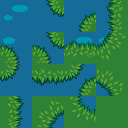
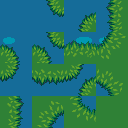
added internal bio-diversity through solid_biome.png

Changed region(s): [[0.0938, 0.0312, 0.2188, 0.0938], [0.0312, 0.0938, 0.125, 0.1562]]

diff --git a/mapbuild.py b/mapbuild.py
@@ -1,159 +1,182 @@
 """
-mapbuild.py  –  multi-biome Wang-corner terrain generator
----------------------------------------------------------
-requirements:
-    pip install pillow noise
-directory layout expected:
-    assets/
-        transition_grass_water.png
-        transition_grass_desert.png
-        transition_desert_water.png
-            (each is a 4×4 = 128×128 PNG, indices 0-15 row-major)
+mapbuild.py – tri-biome Wang generator *with sparse décor patches*
+------------------------------------------------------------------
+If assets/solid_<biome>.png exists, the strip is sliced into
+one ‘pure’ tile (always index 0) plus N decorative frames.
+These extra frames are sprinkled on the interior according to
+two biome-specific knobs:
 
-The first biome name in the PNG filename is the HIGH layer,
-the second is the LOW layer, e.g.  transition_grass_water → high=grass, low=water
+    PATCH_FREQ[biome]   • spatial frequency of Perlin noise
+    DENSITY[biome]      • probability (0-1) that a tile inside a
+                          high-noise patch uses a decorative frame
+
+Defaults give ~8 % flowers on grass, ~4 % shells on sand, etc.
 """
 
-import os, math, random
+import math, random
 from pathlib import Path
 import numpy as np
 from PIL import Image
-from noise import pnoise2             # Perlin
+from noise import pnoise2                           # Perlin noise
 
 # ────────────────────────────────────────────────────────────
-# global knobs
+# global knobs you might tweak
 # ────────────────────────────────────────────────────────────
-TILE        = 32          # pixel edge of one tile
-GRID        = 128         # number of tiles along one axis
+TILE        = 32
+GRID        = 128           # world size in tiles
 SEED        = 42
-WATER_FREQ  = 1.2         # ↓ lower ⇒ bigger blobs
+WATER_FREQ  = 1.2
 DESERT_FREQ = 1.0
-WATER_TH    = -0.10       # Perlin value < WATER_TH  → water
-DESERT_TH   =  0.20       # Perlin value > DESERT_TH → desert
-BUFFER_DIST = 2           # Manhattan distance separating water & desert
-ASSETS_DIR  = Path("assets")
+WATER_TH    = -0.10
+DESERT_TH   =  0.20
+BUFFER_DIST = 2
 
-# ────────────────────────────────────────────────────────────
-# tileset helpers
-# ────────────────────────────────────────────────────────────
+ASSETS_DIR  = Path("assets")
 PAIR_IMG = {("water",  "grass"):  "transition_grass_water.png",
             ("grass",  "desert"): "transition_grass_desert.png",
-            ("water",  "desert"): "transition_desert_water.png"}   # high_low in PNG
+            ("water",  "desert"): "transition_desert_water.png"}   # hi_low order
 
-def split_tileset(img_path: Path):
-    """return list[16] of 32×32 PIL tiles cropped from 4×4 sheet"""
-    img = Image.open(img_path).convert("RGBA")
-    return [img.crop(((idx % 4)*TILE,
-                      (idx // 4)*TILE,
-                      (idx % 4 + 1)*TILE,
-                      (idx // 4 + 1)*TILE))
-            for idx in range(16)]
+# Décor parameters by biome (add more if you add biomes)
+PATCH_FREQ = dict(grass=8.0, desert=7.0, water=9.0)   # lower→larger blobs
+DENSITY    = dict(grass=0.25, desert=0.15, water=0.10) # fraction inside blob
 
-SHEETS  = {}   # (water,grass) → [16 PILs]
-HI_LO   = {}   # (water,grass) → ("grass","water")
+# ────────────────────────────────────────────────────────────
+# helper – slice a 4×4 Wang sheet
+# ────────────────────────────────────────────────────────────
+def slice_sheet(path: Path):
+    img = Image.open(path).convert("RGBA")
+    return [img.crop(((i % 4)*TILE,
+                      (i // 4)*TILE,
+                      (i % 4 + 1)*TILE,
+                      (i // 4 + 1)*TILE))
+            for i in range(16)]
 
+SHEETS, HI_LO = {}, {}
 for pair, fname in PAIR_IMG.items():
-    sheet_path = ASSETS_DIR / fname
-    SHEETS[pair] = split_tileset(sheet_path)
+    sheet = slice_sheet(ASSETS_DIR / fname)
+    hi, lo = Path(fname).stem.split("_")[-2:]
+    SHEETS[pair] = sheet
+    HI_LO[pair]  = (hi, lo)
 
-    # parse "transition_<high>_<low>.png"
-    stem_parts = sheet_path.stem.split("_")   # ['transition', 'grass', 'water']
-    hi, lo = stem_parts[-2], stem_parts[-1]
-    HI_LO[pair] = (hi, lo)
+# ── build PURE + optional DECORATIVE tiles ─────────────────
+PURE = {}        # biome → PIL (canonical)
+EXTRA = {}       # biome → list[PIL] of decorative frames
 
-# build a “pure” tile cache so areas of one biome use a single image
-PURE_TILE = {}   # biome → PIL.Image
 for pair, sheet in SHEETS.items():
     hi, lo = HI_LO[pair]
-    PURE_TILE.setdefault(hi, sheet[15])   # all-high tile
-    PURE_TILE.setdefault(lo, sheet[0])    # all-low  tile
+    PURE.setdefault(hi, sheet[15])
+    PURE.setdefault(lo, sheet[0])
+
+for biome in PURE:
+    strip_path = ASSETS_DIR / f"solid_{biome}.png"
+    frames = []
+    if strip_path.is_file():
+        strip = Image.open(strip_path).convert("RGBA")
+        cols = strip.width // TILE
+        for c in range(cols):
+            tile = strip.crop((c*TILE, 0, (c+1)*TILE, TILE))
+            frames.append(tile)
+    EXTRA[biome] = frames               # may be empty list
 
 # ────────────────────────────────────────────────────────────
-# noise helpers
+# deterministic Perlin wrappers
 # ────────────────────────────────────────────────────────────
+def perlin(nx, ny, freq, base):
+    """Perlin in range [-1,1]"""
+    return pnoise2(nx*freq, ny*freq, octaves=4, base=base)
+
+def decor_noise(biome, x, y):
+    freq = PATCH_FREQ.get(biome, 8.0)
+    base = hash(biome) & 0xFFFF
+    return perlin(x/GRID, y/GRID, freq, base)  # [-1,1]
+
 rng = random.Random(SEED)
 
-def perlin(nx: float, ny: float, freq: float, seed_shift: int):
-    """Perlin in range -1 … +1"""
-    return pnoise2(nx*freq, ny*freq, octaves=4, base=SEED+seed_shift)
-
 # ────────────────────────────────────────────────────────────
-# 1. generate corner biome grid
+# 1.  assign a biome to every *corner*
 # ────────────────────────────────────────────────────────────
 corners = np.full((GRID+1, GRID+1), "grass", dtype=object)
-
 for y in range(GRID+1):
     for x in range(GRID+1):
-        nx, ny = x / GRID, y / GRID
-        w_val  = perlin(nx, ny, WATER_FREQ, 101)
-        d_val  = perlin(nx, ny, DESERT_FREQ, 202)
+        nx, ny = x/GRID, y/GRID
+        if perlin(nx, ny, WATER_FREQ, 101) < WATER_TH:
+            corners[y,x] = "water"
+        elif perlin(nx, ny, DESERT_FREQ, 202) > DESERT_TH:
+            corners[y,x] = "desert"
 
-        if w_val < WATER_TH:
-            corners[y, x] = "water"
-        elif d_val > DESERT_TH:
-            corners[y, x] = "desert"
-
-# ── enforce WATER-to-DESERT buffer (convert desert tiles inside buffer → grass)
-water_mask = (corners == "water").astype(np.uint8)
-buffer     = np.zeros_like(water_mask)
+# enforce water-desert gap
+water = (corners == "water").astype(np.uint8)
+buf   = np.zeros_like(water)
 for k in range(1, BUFFER_DIST+1):
-    buffer |= np.pad(water_mask[k:,   :], ((0,k),(0,0))) \
-           |  np.pad(water_mask[:-k,  :], ((k,0),(0,0))) \
-           |  np.pad(water_mask[:, k:], ((0,0),(0,k))) \
-           |  np.pad(water_mask[:, :-k],((0,0),(k,0)))
-corners[(buffer == 1) & (corners == "desert")] = "grass"
+    buf |= np.pad(water[k:,   :], ((0,k),(0,0))) \
+        |  np.pad(water[:-k,  :], ((k,0),(0,0))) \
+        |  np.pad(water[:, k:], ((0,0),(0,k))) \
+        |  np.pad(water[:, :-k],((0,0),(k,0)))
+corners[(buf==1) & (corners=="desert")] = "grass"
 
 # ────────────────────────────────────────────────────────────
-# 2. stitch output image tile-by-tile
+# 2.  tile output image
 # ────────────────────────────────────────────────────────────
-out_img = Image.new("RGBA", (GRID*TILE, GRID*TILE))
+out = Image.new("RGBA", (GRID*TILE, GRID*TILE))
 
-def find_sheet_and_orientation(biome_a: str, biome_b: str):
-    """Return (sheet[16], hiBiome, loBiome) for this unordered pair"""
-    if (biome_a, biome_b) in SHEETS:
-        key = (biome_a, biome_b)
-    elif (biome_b, biome_a) in SHEETS:
-        key = (biome_b, biome_a)
-    else:
-        raise KeyError(f"No tileset for pair ({biome_a}, {biome_b})")
-    sheet = SHEETS[key]
-    hi, lo = HI_LO[key]
-    return sheet, hi, lo
+def sheet_for_pair(a,b):
+    if (a,b) in SHEETS:   key=(a,b)
+    else:                 key=(b,a)
+    return SHEETS[key], *HI_LO[key]
+
+def pick_interior_tile(biome, x, y):
+    """
+    Return a deterministic, varied tile for a mono-biome cell.
+    • Outside a high-noise patch   → canonical PURE tile.
+    • Inside a patch               → one of the EXTRA frames,
+      chosen by a coordinate hash so neighbouring cells can differ.
+    """
+    extras = EXTRA[biome]
+    if not extras:                     # no decorative frames
+        return PURE[biome]
+
+    n = decor_noise(biome, x, y)       # [-1,1]
+    if n < 0.0 or rng.random() > DENSITY.get(biome, 0.2):
+        return PURE[biome]             # keep plain tile
+
+    # --- inside a patch ------------------------------------------------
+    # Produce a stable pseudorandom index: mix grid coords with biome hash
+    h = (x * 0x45d9f3b + y * 0x2c1b3c6 + (hash(biome) & 0xFFFF)) & 0xFFFFFFFF
+    idx = h % len(extras)
+    return extras[idx]
+
 
 for y in range(GRID):
     for x in range(GRID):
-        nw, ne = corners[y,   x], corners[y,   x+1]
-        sw, se = corners[y+1, x], corners[y+1, x+1]
-        palette = {nw, ne, sw, se}
+        nw, ne = corners[y,x],   corners[y,x+1]
+        sw, se = corners[y+1,x], corners[y+1,x+1]
+        palette = {nw,ne,sw,se}
 
-        if len(palette) == 1:
-            # interior of a single biome
-            biome = palette.pop()
-            tile  = PURE_TILE[biome]
-            out_img.paste(tile, (x*TILE, y*TILE))
+        # single-biome cell
+        if len(palette)==1:
+            tile = pick_interior_tile(nw, x, y)
+            out.paste(tile, (x*TILE, y*TILE))
             continue
 
-        if len(palette) != 2:
-            # rare safety fallback: collapse to majority biome
-            majority = max(palette, key=[nw, ne, sw, se].count)
-            out_img.paste(PURE_TILE[majority], (x*TILE, y*TILE))
+        # exactly two biomes → Wang transition
+        if len(palette)==2:
+            a,b = palette
+            sheet, hi, lo = sheet_for_pair(a,b)
+            def bit(bm): return 1 if bm==hi else 0
+            code = (bit(ne)<<0)|(bit(se)<<1)|(bit(sw)<<2)|(bit(nw)<<3)
+            out.paste(sheet[code], (x*TILE, y*TILE))
             continue
 
-        a, b = palette
-        sheet, hi, lo = find_sheet_and_orientation(a, b)
-
-        def bit(corner_biome):
-            return 1 if corner_biome == hi else 0
-
-        code = (bit(ne) << 0) | (bit(se) << 1) | (bit(sw) << 2) | (bit(nw) << 3)
-        out_img.paste(sheet[code], (x*TILE, y*TILE))
+        # rare fallback (shouldn’t happen)
+        maj = max(palette, key=[nw,ne,sw,se].count)
+        out.paste(PURE[maj], (x*TILE, y*TILE))
 
 # ────────────────────────────────────────────────────────────
-# 3. export & report
+# 3.  save & preview
 # ────────────────────────────────────────────────────────────
 out_path = ASSETS_DIR / "wang_multi_biome.png"
-out_img.save(out_path)
-out_img.show()
+out.save(out_path)
+out.show()
 
-vals, counts = np.unique(corners, return_counts=True)
-print("corner biome counts:", dict(zip(vals, map(int, counts))), "→", out_path)
+vals,cnts = np.unique(corners, return_counts=True)
+print("corner biome counts:", dict(zip(vals,map(int,cnts))), "→", out_path)
